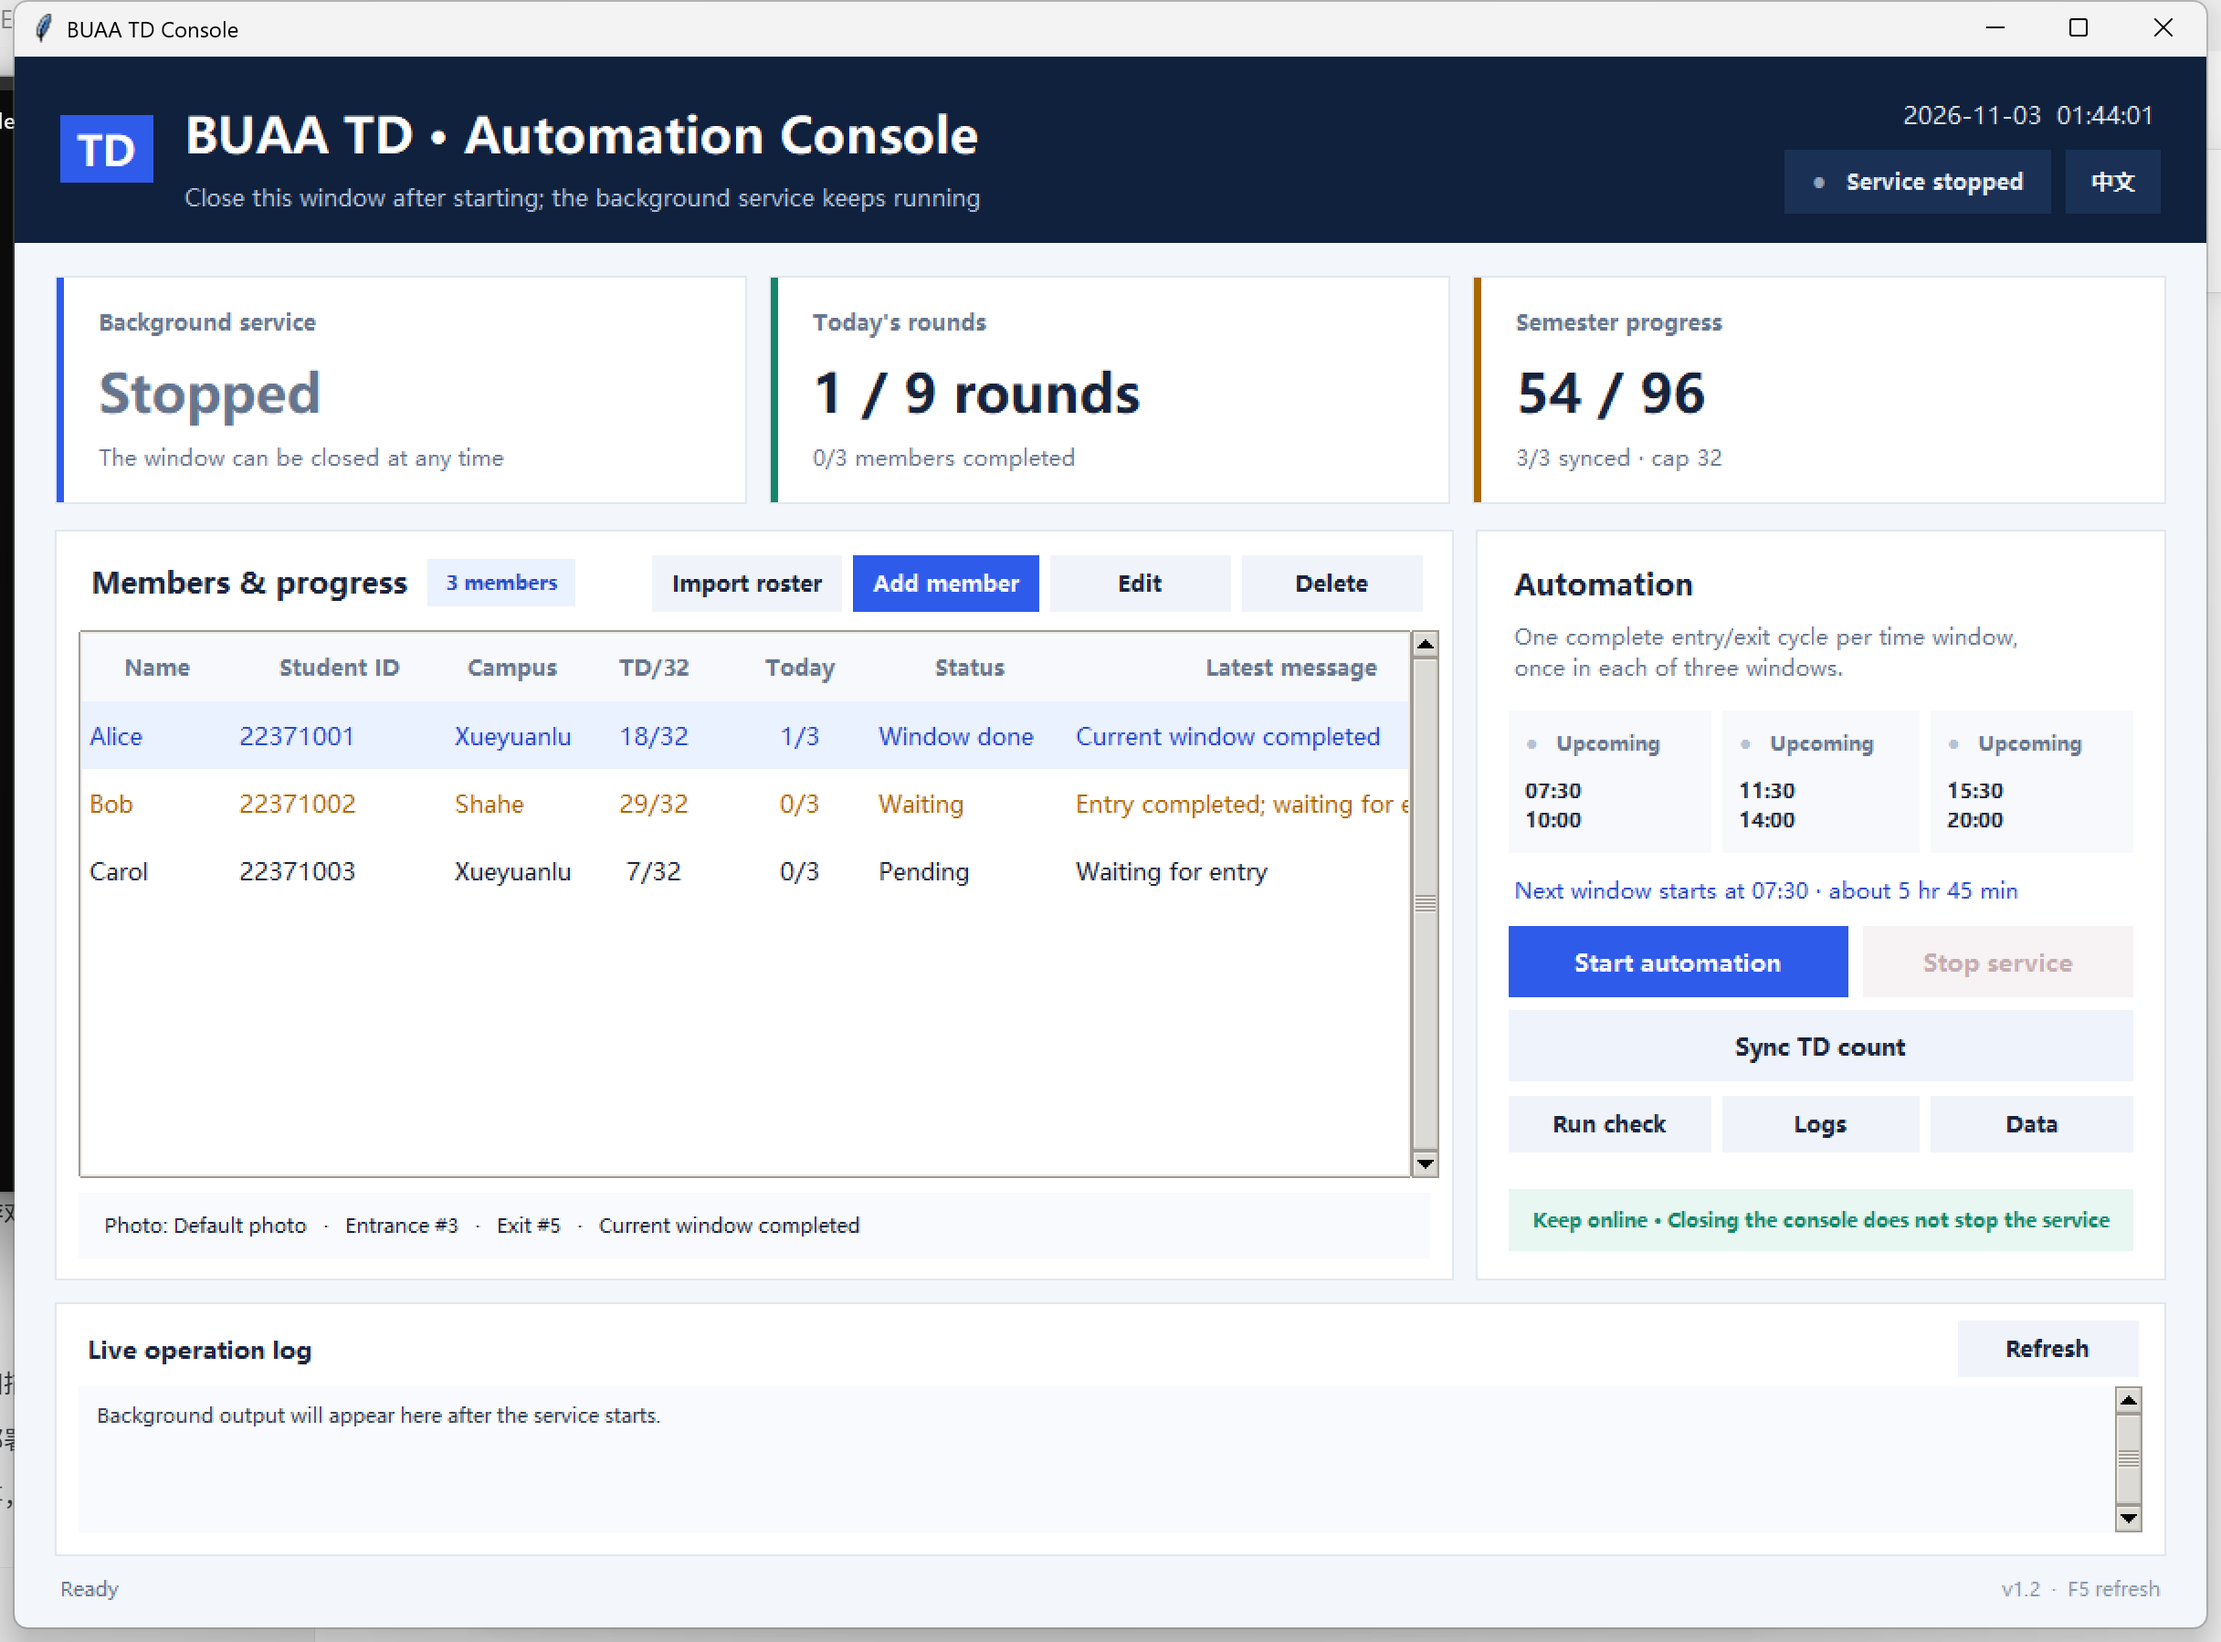
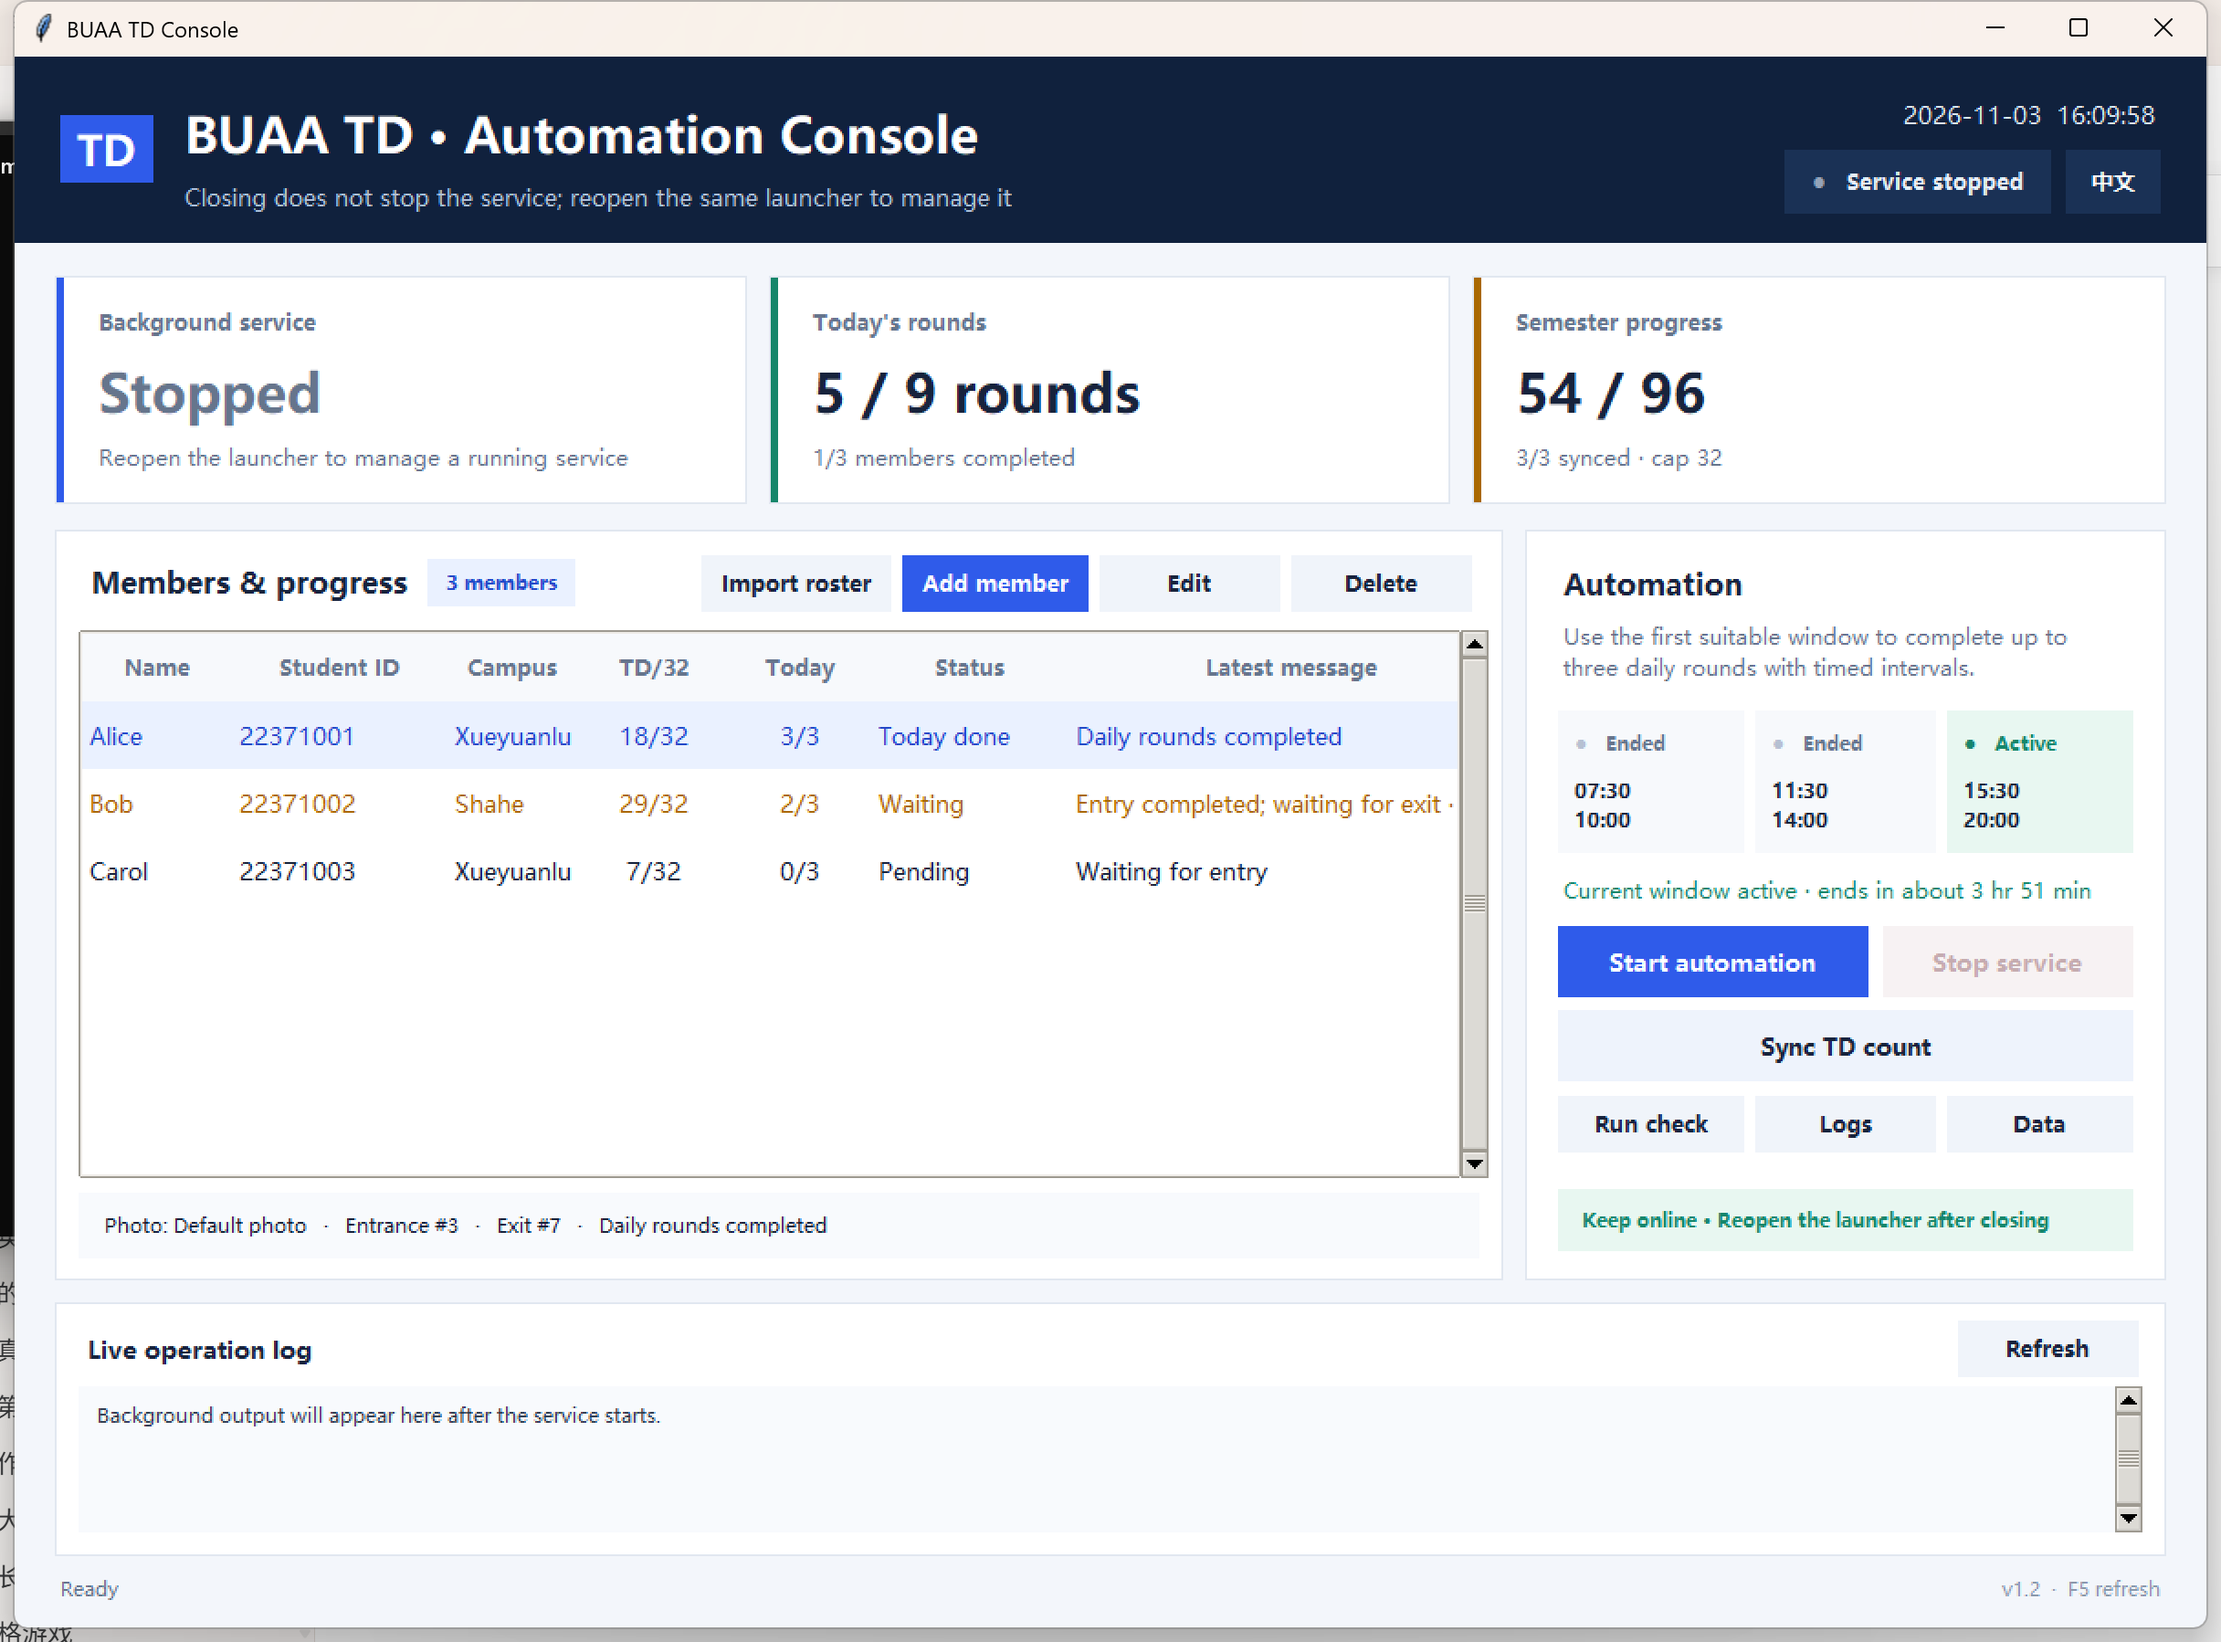
Simplify console to a single launcher

diff --git a/buaatd/i18n.py b/buaatd/i18n.py
@@ -7,13 +7,13 @@ TRANSLATIONS: dict[str, dict[str, str]] = {
     "zh": {
         "app_title": "北航 TD 控制台",
         "brand_title": "北航 TD · 自动运行控制台",
-        "subtitle": "启动后可关闭窗口，后台会继续自动运行",
+        "subtitle": "关闭窗口不停止后台；重新双击一键启动可再次控制",
         "language_button": "EN",
         "backend_running": "后台运行中",
         "backend_stopped": "后台已停止",
         "status_running": "运行中",
         "status_stopped": "已停止",
-        "service_stop_hint": "启动后窗口可随时关闭",
+        "service_stop_hint": "后台运行时重新打开入口即可管理",
         "active_pid": "后台进程 PID {pid} · 独立运行",
         "metric_backend": "后台服务",
         "metric_today": "今日任务",
@@ -50,7 +50,7 @@ TRANSLATIONS: dict[str, dict[str, str]] = {
         "health_check": "环境自检",
         "open_logs": "打开日志",
         "data_folder": "数据目录",
-        "runtime_tip": "保持开机联网 · 关闭控制台不影响后台运行",
+        "runtime_tip": "保持开机联网 · 关闭后可从一键启动重新进入",
         "logs_title": "实时运行日志",
         "refresh_logs": "刷新日志",
         "ready": "就绪",
@@ -178,13 +178,13 @@ TRANSLATIONS: dict[str, dict[str, str]] = {
     "en": {
         "app_title": "BUAA TD Console",
         "brand_title": "BUAA TD · Automation Console",
-        "subtitle": "Close this window after starting; the background service keeps running",
+        "subtitle": "Closing does not stop the service; reopen the same launcher to manage it",
         "language_button": "中文",
         "backend_running": "Service running",
         "backend_stopped": "Service stopped",
         "status_running": "Running",
         "status_stopped": "Stopped",
-        "service_stop_hint": "The window can be closed at any time",
+        "service_stop_hint": "Reopen the launcher to manage a running service",
         "active_pid": "Background PID {pid} · Independent process",
         "metric_backend": "Background service",
         "metric_today": "Today's rounds",
@@ -221,7 +221,7 @@ TRANSLATIONS: dict[str, dict[str, str]] = {
         "health_check": "Run check",
         "open_logs": "Logs",
         "data_folder": "Data",
-        "runtime_tip": "Keep online · Closing the console does not stop the service",
+        "runtime_tip": "Keep online · Reopen the launcher after closing",
         "logs_title": "Live operation log",
         "refresh_logs": "Refresh",
         "ready": "Ready",

diff --git a/buaatd/cli.py b/buaatd/cli.py
@@ -127,7 +127,7 @@ def cmd_start(args) -> int:
     store.initialize()
     users = store.list_users()
     if not users:
-        print("没有用户，先运行 一键开始.bat 或 python -m buaatd setup")
+        print("没有用户，先运行 一键启动.bat 或 python -m buaatd setup")
         return 1
     for message in repair_user_assets(store):
         print(f"自动修复: {message}")

diff --git a/tests/test_repository.py b/tests/test_repository.py
@@ -1,0 +1,13 @@
+import unittest
+
+from buaatd.paths import project_root
+
+
+class RepositoryLayoutTests(unittest.TestCase):
+    def test_only_one_batch_launcher_is_present(self):
+        launchers = sorted(path.name for path in project_root().glob("*.bat"))
+        self.assertEqual(launchers, ["一键启动.bat"])
+
+
+if __name__ == "__main__":
+    unittest.main()

diff --git a/README.zh-CN.md b/README.zh-CN.md
@@ -9,10 +9,10 @@
 ## 开始使用
 
 1. 连接**校园网**或学校 VPN。
-2. 双击 **`一键启动.bat`**，也可以使用英文入口 `start.bat`。
+2. 双击唯一入口 **`一键启动.bat`**。
 3. 点击“导入名单”或“添加成员”。
 4. 点击“启动自动打卡”，然后可以关闭控制台。
-5. 下次打开控制台可查看后台是否仍在运行。
+5. 后台运行时可以关闭控制台；再次双击 `一键启动.bat` 会重新打开控制台，可查看状态或停止后台。
 
 控制台右上角的 `EN` / `中文` 按钮可以即时切换界面语言，选择会保存到本地设置。
 
@@ -55,15 +55,11 @@
 
 ![添加成员预览（演示数据）](docs/member-dialog-preview.png)
 
-## 文件说明
+## 唯一启动入口
 
-| 文件 | 作用 |
-| --- | --- |
-| `一键启动.bat` / `start.bat` | 打开可视化控制台 |
-| `创建桌面快捷方式.bat` / `create-shortcut.bat` | 创建桌面快捷方式 |
-| `停止.bat` / `stop.bat` | 紧急停止后台任务 |
-| `立即打一轮.bat` / `run-once.bat` | 在当前窗口立即执行完整批量任务 |
-| `users.example.txt` | 批量名单格式示例 |
+项目根目录只保留一个控制台启动器：`一键启动.bat`。启动、停止后台、查看状态、同步次数、日志和成员管理都在同一个控制台中完成。
+
+后台运行期间关闭控制台不会停止任务。需要重新控制时，再次双击 `一键启动.bat` 即可。
 
 运行数据和日志保存在 `data/` 中，包括成员、状态、日志和进程信息。不要在后台运行时手动修改 `data/state.json`。
 

diff --git a/README.md b/README.md
@@ -37,10 +37,12 @@ A Windows desktop console for managing BUAA TD check-in schedules from one place
 ### Run
 
 1. Connect to the campus network or school VPN.
-2. Double-click `start.bat` or `一键启动.bat`.
+2. Double-click the only launcher, `一键启动.bat`.
 3. Import a roster or add members from the console.
 4. Click **Run check** to verify the local configuration and TD connectivity.
 5. Click **Start automation**. The console may be closed safely afterward.
+
+There is only one batch entry. To manage a background service that is already running, double-click `一键启动.bat` again. The existing console is restored, or a new console opens with the current service and member state.
 
 The `EN` / `中文` control at the top-right switches the complete console interface and saves the selected language.
 
@@ -92,7 +94,7 @@ Rules:
 - A member is skipped automatically after reaching 32 TD records.
 - Transient network errors retry automatically up to five times.
 - New rounds are not started when too little time remains in the current window.
-- Completion state is persisted, so restarting the console does not repeat a completed window.
+- Completion state is persisted, so restarting the console does not repeat completed rounds.
 
 ## Console Features
 
